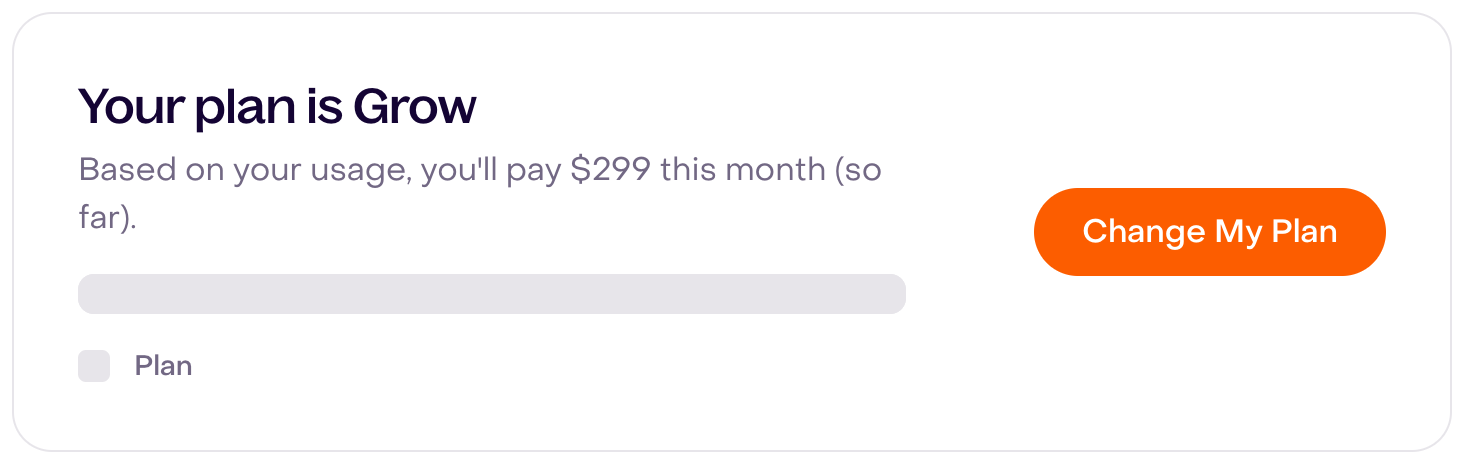
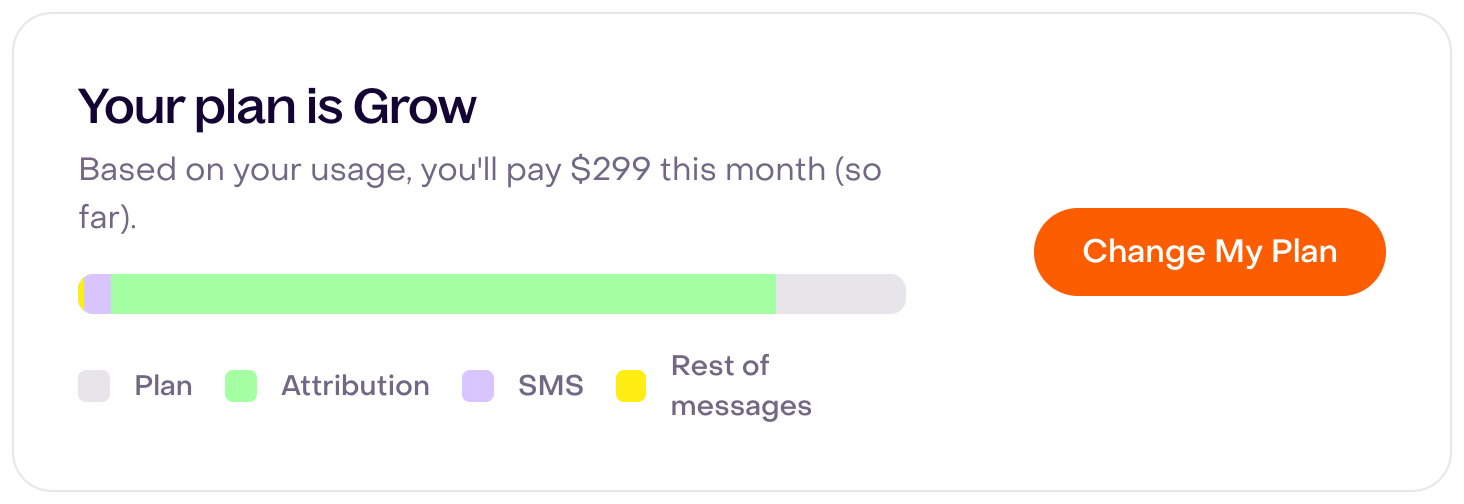
Populate billing usage guide with fictional attribution and messages

diff --git a/docs/editorial-work/understanding-plan-quotas.md b/docs/editorial-work/understanding-plan-quotas.md
@@ -11,7 +11,7 @@
 
 | Section | Reader question | Decision |
 | --- | --- | --- |
-| Open the usage summary | Which card shows the current plan and where is the selected month? | Localized plan and usage card figures have native desktop/mobile sources. The corrected plan card shows a fictional Grow account with a $299 minimum; the usage card shows its 3% attributed-sales rate and zero transactions. Captions identify demonstration data rather than a representative outcome or a price for every country. |
+| Open the usage summary | Which card shows the current plan and where is the selected month? | Localized plan and usage card figures have native desktop/mobile sources. The current Grow example compares its $299 minimum with fictional attributed sales, SMS and other-message usage. Captions identify demonstration data rather than a representative outcome or a price for every country. |
 | Interpret the comparison | Which rows are charges rather than underlying counts? | The usage card above shows sales versus fee and message counts versus cost. A second nearly identical screenshot would be redundant. Prose names the four candidates and explains that the plan amount is on the neighboring card. |
 | Compare the correct period | Why can Billing and reports differ? | Date-model explanation with no new interface control. The period selector is already visible in the usage figure. |
 | Balance and payment history | Where is the month selector and what does it show? | Reuse the approved localized desktop/mobile `history` images from Billing settings. No duplicate PNGs or financial records are created. |
@@ -39,7 +39,7 @@ Help PR #215 merged with merge commit `2ec0ea2975a46a9e610251a85a4baca3ea3ef531`
 
 The public [Spanish page](https://help.hellotext.com/es/conociendo-los-consumos-del-plan) and [English page](https://help.hellotext.com/understanding-plan-quotas) returned HTTP 200 and each rendered three figures. At that time, all eight original PNGs and four reused Billing history PNGs matched their approved hashes. The original hashes remain in Git history; the current provenance record carries the replacement sources and hashes.
 
-## User price correction and replacement capture
+## Earlier Grow price correction (superseded by the populated example below)
 
 The user confirmed the Enterprise monthly price is USD 1,899. The original Enterprise USD 2,499 screenshots are superseded. The new example uses **Grow** as the active plan at USD 299, so the adjacent usage figure now correctly shows the Grow 3% attributed-sales rate rather than Enterprise's 2%. The September 2026 quota still has no attributed sales, SMS or other message transactions. The two unchanged payment-history figures are still reused from Billing settings.
 
@@ -54,3 +54,15 @@ The replacement passed `yarn build`, including the production header check. The 
 Help PR #219 merged by merge commit `9be685cd9719a67393f09692268d80a0995d74ab`, preserving content commit `b5ff3e23ba4d60249ba3840b6214441616f4c148` and verifier commit `e399dcb3687be42b2f6571e17d974090fe4ba144`. Build, Aikido, Netlify preview, header rules and automated review passed. The main Build run `36545542389` passed for the exact merge SHA. Netlify's normal production deploy `6abb7c6bcae2520008b22691` reported `ready`, `production`, `main`, `commit_ref` equal to that SHA, and publication at `2026-09-29T08:53:35.888Z`; no manual deploy ran.
 
 The public [Spanish page](https://help.hellotext.com/es/conociendo-los-consumos-del-plan) and [English page](https://help.hellotext.com/understanding-plan-quotas) returned HTTP 200 with Grow and no stale USD 2,499 figure or alt text. All eight localized desktop/mobile PNG URLs under `https://help.hellotext.com/images/billing/understanding-plan-quotas/` returned HTTP 200 and matched the replacement provenance SHA-256 hashes exactly. The two payment-history figures per locale remained referenced from Billing settings without duplicate assets. The shared screenshot guide's current-price rule was integrated separately in editorial PR #12.
+
+## Populated Billing example requested by the reader
+
+The reader pointed out that the plan screenshot still looked empty and asked for attributed-sales and message examples. The existing Grow example had zero usage, so the four-category comparison bar showed only the plan minimum. The article needed the source data that Billing actually calculates, not pixel edits or invented labels. The new isolated clone is `hellotext_editorial_billing_usage_20260929`, copied from the prior Grow demo before any new usage. The guarded, one-shot `captures/understanding-plan-quotas/usage-fixture.sql` is the reproducible fixture source. It checks the exact database, business 5, fictional owner, Grow USD 299 price, 3% attribution rate, zero previous quota transactions and 127 unconfirmed contacts before writing. It inserts 12 fictional quota attribution sales of USD 700 each, then 80 SMS message records with 88 segments and 1,250 other-message records split between WhatsApp and Email, each paired with the quota transaction read by Billing. Historical message rows are local synthetic database records with no provider or transport; the script does not call application callbacks, send a message, run a campaign or initiate a payment. Contacts remain unconfirmed.
+
+The actual `Quota#billable_events` presenter returned **Grow USD 299, performance fee USD 252 on USD 8,400 sales, SMS USD 12, and other messages USD 2**. The visible count rows returned 80 SMS messages with 88 segments and 1,250 other messages. Grow is still the highest amount, so the plan card correctly says USD 299 rather than adding the categories. The month remains September 2026. The billing page's SMS row still contains the application's hard-coded English word `Messages` in Spanish; the capture does not modify it. The owner locale changed through a guarded, callback-free update only inside the clone for the English capture, then was restored to Spanish.
+
+Eight source PNGs replaced the earlier empty examples: plan and usage, desktop and mobile, ES and EN. All came directly from the dedicated isolated Chrome compositor at 2× with embedded Display P3. Each capture verified its exact loopback page, title, locale, fictional account, target control, CSS viewport, zoom, and stable pre/post state. The desktop plan card grew to include all four legend items, so its native crop grew to 1464×504. At 390 CSS px the four-item legend forced the progress bar outside the plan card; those two probes were rejected. The accepted mobile plan images use a 480 CSS px app layout with a full bar and border, then display within the narrower Help article at more than 2× source density. The English mobile usage probe initially included the next card's border; it was rejected and recaptured at 740×954. The accepted files have complete borders, legible rows and no pointer, debugger or private customer data. Their clips, hashes and image dimensions are in `captures/understanding-plan-quotas/capture-provenance.json`. No chart or other screenshot pixels were changed.
+
+The adjacent ES/EN prose and accessible descriptions now explain the nonzero demonstration values and the highest-only rule. Payment-history images remain reused; a different payment-history view would not explain this billing comparison, and no payment was created. The calculation and period sections remain prose because they explain date and charge semantics already visible in the two cards.
+
+`yarn build` passed, including the production header check. The complete ES/EN guides were reviewed at 1280 and 390 CSS px in the Help browser: three static figures per locale, responsive mobile sources at the mobile breakpoint, no horizontal overflow or image links, complete lavender stages, and legible source values. The mobile plan sources use 480 CSS px app layout but render at 316 CSS px in the 390 CSS px Help viewport, retaining more than 2× source density and a complete progress bar. All eight native source PNGs matched their Help assets and both built output copies byte for byte, with embedded Display P3. The synthetic breakdown query returned 80 SMS in Uruguay (88 segments), 1,000 WhatsApp and 250 Email messages; `Quota#billable_events` returned the four amounts stated above. The clone's owner locale is restored to Spanish and no contact is messageable. Content and images are locally verified; publication and public asset verification remain pending until merge and deployment.

diff --git a/_i18n/en/billing/understanding-plan-quotas.md b/_i18n/en/billing/understanding-plan-quotas.md
@@ -6,32 +6,32 @@ Use the Billing **Usage summary** to understand what happened in a billing perio
 2. Find the card for your current plan.
 3. In **Usage summary**, select the billing period you want to review.
 
-The first card shows the active plan, the monthly amount calculated so far, and **Change My Plan**. In the image, the plan minimum is the highest amount for a fictional account with no attributed sales or billable messages.
+The first card shows the active plan, the monthly amount calculated so far, and **Change My Plan**. In the fictional account, Grow remains the highest amount even though attributed sales and messages have been recorded.
 
 <figure class="ht-editorial-visual ht-editorial-visual--screenshot" aria-label="Active plan and monthly amount">
   <div class="ht-editorial-visual__stage">
     <div class="ht-editorial-visual__image-frame" style="max-width: 800px; margin: 0 auto;">
       <picture>
-        <source media="(max-width: 600px)" srcset="/images/billing/understanding-plan-quotas/plan-en-mobile.png" width="740" height="528" />
-        <img class="ht-editorial-visual__image" src="/images/billing/understanding-plan-quotas/plan-en.png" width="1464" height="464" loading="lazy" decoding="async" alt="Fictional Grow plan card with a $299 monthly amount and the Change My Plan control." />
+        <source media="(max-width: 600px)" srcset="/images/billing/understanding-plan-quotas/plan-en-mobile.png" width="920" height="528" />
+        <img class="ht-editorial-visual__image" src="/images/billing/understanding-plan-quotas/plan-en.png" width="1464" height="504" loading="lazy" decoding="async" alt="Fictional Grow plan card with $299, a usage bar for plan, attribution, SMS, and other messages, and the Change My Plan control." />
       </picture>
     </div>
   </div>
-  <figcaption class="ht-editorial-visual__caption">The isolated account has no attributed sales or billable messages; the illustrated amount comes from the plan.</figcaption>
+  <figcaption class="ht-editorial-visual__caption">In this fictional account, the $299 plan amount exceeds the other calculated amounts. The bar identifies the four categories being compared.</figcaption>
 </figure>
 
-The second card separates attributed sales from their fee and shows SMS and other message counts and costs. Use its period selector to choose an available month. These rows are zero in the demonstration account; the image helps identify the fields and does not represent a business with usage.
+The second card separates attributed sales from their fee and shows SMS and other message counts and costs. Use its period selector to choose an available month. The figures are fictional: $8,400 in attributed sales produces a $252 fee at 3%; 80 SMS messages with 88 segments cost $12, and 1,250 messages on other channels produce $2 under the illustrated bucket.
 
 <figure class="ht-editorial-visual ht-editorial-visual--screenshot" aria-label="Usage summary and period selector">
   <div class="ht-editorial-visual__stage">
     <div class="ht-editorial-visual__image-frame" style="max-width: 800px; margin: 0 auto;">
       <picture>
         <source media="(max-width: 600px)" srcset="/images/billing/understanding-plan-quotas/usage-en-mobile.png" width="740" height="954" />
-        <img class="ht-editorial-visual__image" src="/images/billing/understanding-plan-quotas/usage-en.png" width="1464" height="922" loading="lazy" decoding="async" alt="Fictional Usage summary with a September 2026 selector and no attributed sales, SMS, or other message usage." />
+        <img class="ht-editorial-visual__image" src="/images/billing/understanding-plan-quotas/usage-en.png" width="1464" height="922" loading="lazy" decoding="async" alt="Fictional September 2026 Usage summary: $8,400 in attributed sales, a $252 fee, 80 SMS messages costing $12, and 1,250 other messages costing $2." />
       </picture>
     </div>
   </div>
-  <figcaption class="ht-editorial-visual__caption">The fictional account has no transactions. The selector only offers periods available to that business.</figcaption>
+  <figcaption class="ht-editorial-visual__caption">Amounts and counts come from fictional records in the isolated account. The selector only offers periods available to that business.</figcaption>
 </figure>
 
 ## Read the comparison
